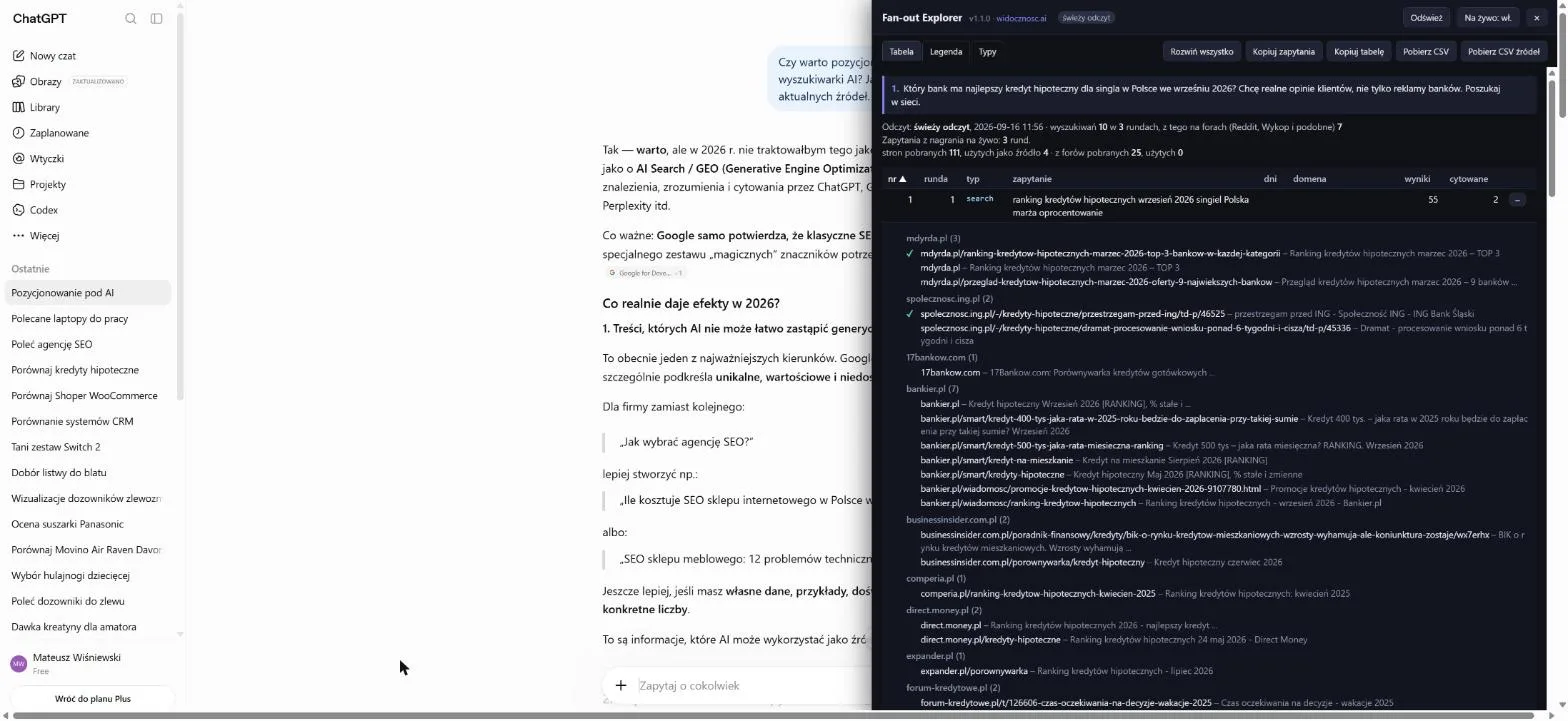
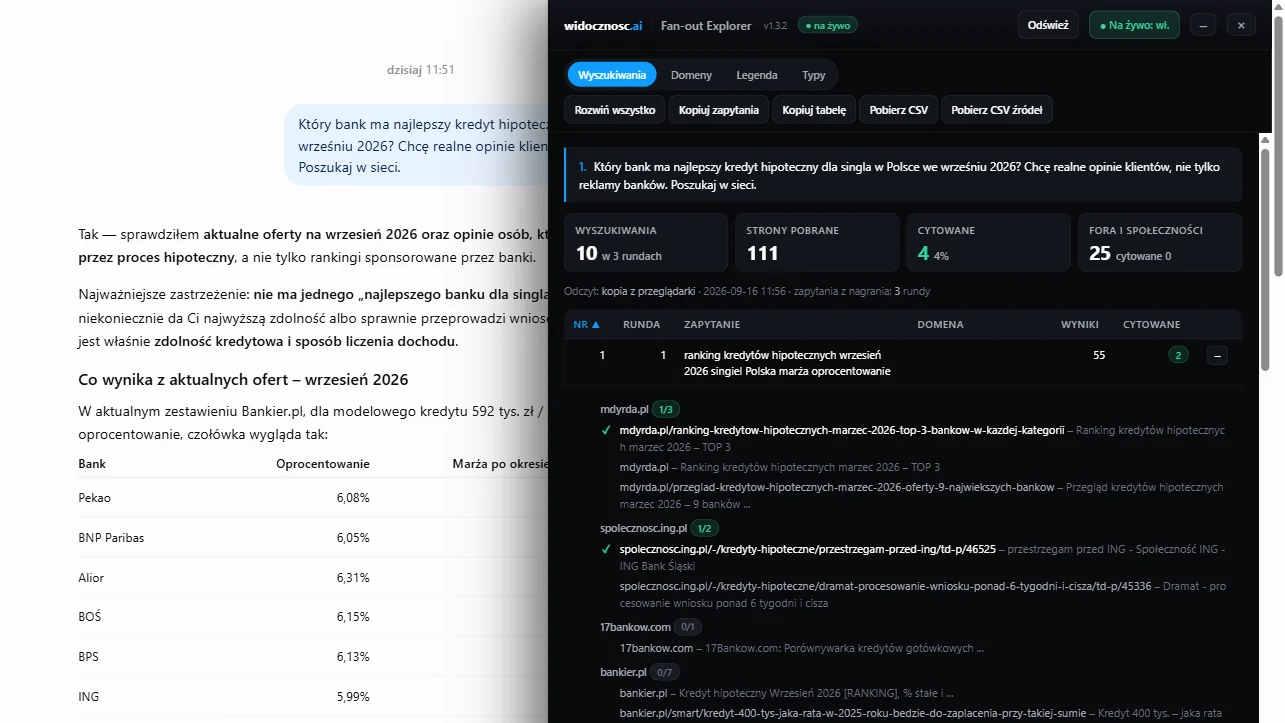
content(widocznosc): wpis Fan-out Explorer – nowe zrzuty z wersji 1.3.2 i zrzut zakładki Domeny
- hero i panel: czat o kredycie hipotecznym, kafelki, rozwinięte pierwsze wyszukiwanie
- nowy zrzut zakładki Domeny pod opisem kategorii
- zrzut instalacji ze strony narzędzia po zmianie tytułu i wstępu
- opisy alt zgodne z nowym wyglądem

diff --git a/portals/widocznosc.ai/src/content/blog/geo/fanout-explorer-chatgpt.md b/portals/widocznosc.ai/src/content/blog/geo/fanout-explorer-chatgpt.md
@@ -56,6 +56,8 @@ Po kliknięciu zakładki w oknie czatu, z prawej strony otwiera się panel. Na g
 
 Ikona plusa przy wierszu rozwija listę stron pogrupowaną według witryny, ze znacznikiem wyboru (ang. check mark) przy każdej zacytowanej. Kolumny, których w danym czacie nie ma (np. okno czasowe w dniach, którego ChatGPT już nie podaje), panel ukrywa automatycznie. Cztery przyciski eksportu pozwalają wyeksportować zapytania do narzędzi słów kluczowych, pobrać tabelę do arkusza kalkulacyjnego oraz wygenerować pliki CSV z wyszukiwaniami i źródłami (z informacją o cytowaniu). Wszystkie dane pozostają w Twojej przeglądarce.
 
+![Panel Fan-out Explorer w wersji 1.3.2 na czacie o kredycie hipotecznym: prompt, kafelki z liczbą wyszukiwań, pobranych i cytowanych stron oraz tabela z rozwiniętym pierwszym wyszukiwaniem, w którym zielone znaczniki oznaczają strony zacytowane w odpowiedzi](../../../assets/images/blog-geo-fanout-explorer-panel.webp)
+
 Druga zakładka, **Domeny**, zbiera wszystkie strony z czatu z podziałem na witryny: ile ChatGPT pobrał, ile zacytował i w ilu wyszukiwaniach ograniczył się do tej witryny operatorem `site:`. Witryny są wstępnie pogrupowane w siedem kategorii:
 
 - fora i społeczności,
@@ -71,7 +73,7 @@ Z tą klasyfikacją warto pamiętać o dwóch rzeczach:
 - **Przypisanie po adresie** – kategoria wynika z adresu strony, nie z jej treści, więc traktuj ją jako pierwsze sortowanie. W praktyce i tak od razu widać, czy w danej kategorii model czerpie wiedzę z forów, rankingów czy stron producentów.
 - **Filtr „tylko cytowane”** – zostawia witryny, które trafiły do odpowiedzi. Bez filtra widać też te czytane i pomijane, czyli często ciekawszą listę.
 
-![Panel Fan-out Explorer na czacie o kredycie hipotecznym: prompt, linie podsumowania i tabela z rozwiniętym pierwszym wyszukiwaniem, w którym znaczniki wyboru oznaczają strony cytowane w odpowiedzi](../../../assets/images/blog-geo-fanout-explorer-panel.webp)
+![Zakładka Domeny w panelu Fan-out Explorer: witryny z czatu o kredycie hipotecznym pogrupowane w kategorie fora i społeczności oraz opinie i rankingi, z liczbą pobranych i cytowanych stron, plakietką site: i paskiem skali](../../../assets/images/blog-geo-fanout-explorer-domeny.webp)
 
 ## Jak zainstalować i kiedy kliknąć
 
@@ -79,7 +81,7 @@ Instalacja polega na przeciągnięciu przycisku ze strony narzędzia [Fan-out Ex
 
 Ważniejsze od samej instalacji jest jedno: **zakładkę należy kliknąć przed wysłaniem promptu**. ChatGPT przesyła treść zapytań wyłącznie w strumieniu odpowiedzi, w wywołaniu funkcji narzędzia (ang. tool call), które nie jest zapisywane w historii rozmowy. Sprawdziliśmy to na koncie Free z modelem GPT-5.6 bez trybu rozumowania (Thinking) oraz na koncie Business z włączonym GPT-5.6 Thinking. W obu przypadkach zapisana rozmowa ma puste pola tam, gdzie znajdowały się polecenia wyszukiwania; zostają tylko wyniki i cytowania. Panel podpina się więc pod strumień, rejestruje zapytania i przechowuje je w przeglądarce razem z czatem. Czat z historii, który nie był rejestrowany na żywo, pokazuje jeden wiersz na rundę: domeny, liczbę stron i cytowania, ale bez dokładnej treści zapytań.
 
-![Strona instalacyjna Fan-out Explorer na widocznosc.ai z przyciskiem do przeciągnięcia na pasek zakładek i dwiema alternatywnymi metodami instalacji](../../../assets/images/blog-geo-fanout-explorer-install.webp)
+![Strona narzędzia Fan-out Explorer na widocznosc.ai: tytuł, opis działania i trzy sposoby instalacji – przeciągnięcie przycisku na pasek zakładek, wklejenie kodu jako adresu zakładki i uruchomienie w konsoli przeglądarki](../../../assets/images/blog-geo-fanout-explorer-install.webp)
 
 ## Sześć polskich promptów, sześć różnych fan-outów
 
